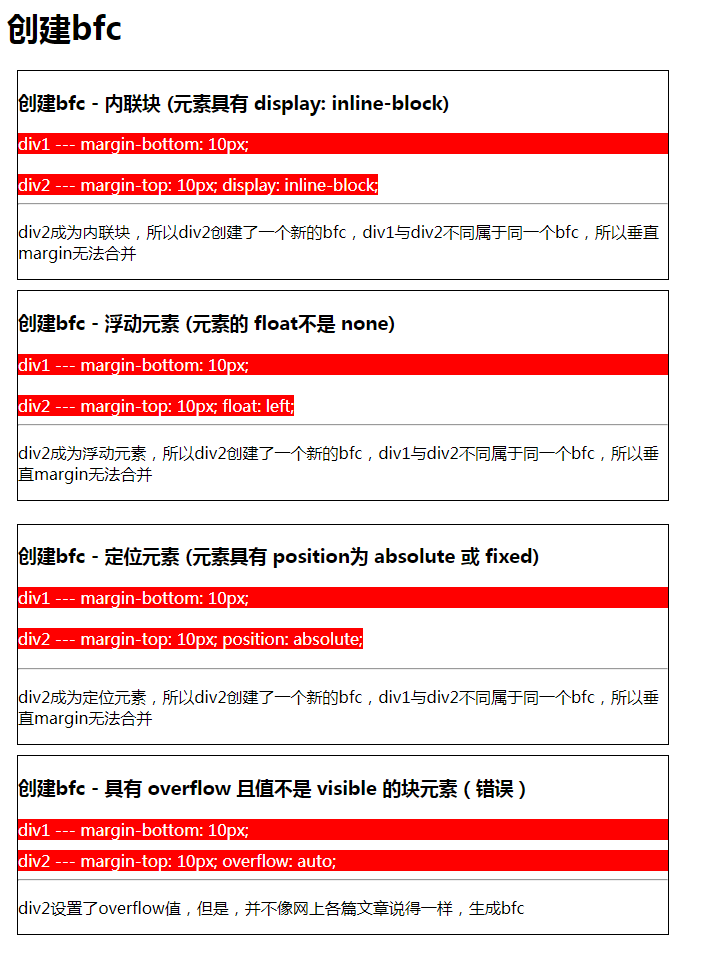
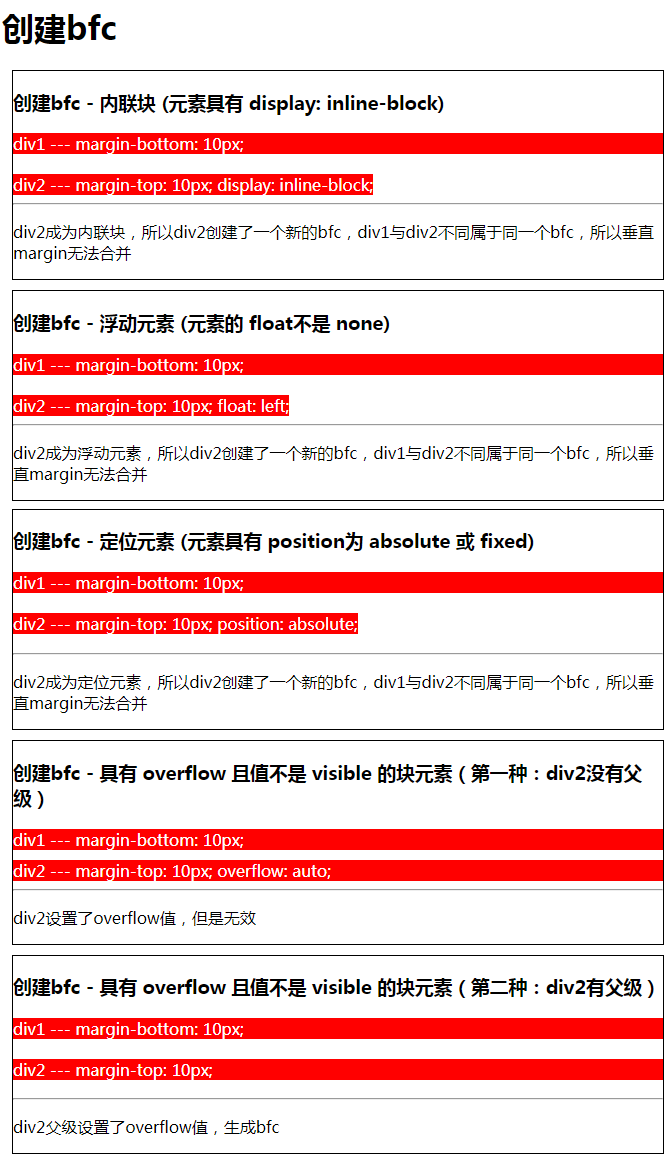
finish

diff --git a/effects/demo/css/vfm/bfc/eg5.html b/effects/demo/css/vfm/bfc/eg5.html
@@ -26,11 +26,11 @@
         }
         .test3 .box:nth-of-type(2) {
             margin-top: 10px;
-            overflow: auto;
+            position: absolute;
         }
         .test4 .box:nth-of-type(2) {
             margin-top: 10px;
-            position: absolute;
+            overflow: auto;
         }
     </style>
 </head>
@@ -51,7 +51,7 @@
     <hr>
     <p>div2成为浮动元素，所以div2创建了一个新的bfc，div1与div2不同属于同一个bfc，所以垂直margin无法合并</p>
 </div>
-<div class="container test4">
+<div class="container test3">
     <h3>创建bfc - 定位元素 (元素具有 position为 absolute 或 fixed)</h3>
     <div class="box">div1 --- margin-bottom: 10px;</div>
     <div class="box">div2 --- margin-top: 10px; position: absolute;</div>
@@ -60,14 +60,24 @@
     <hr>
     <p>div2成为定位元素，所以div2创建了一个新的bfc，div1与div2不同属于同一个bfc，所以垂直margin无法合并</p>
 </div>
-<div class="container test3">
-    <h3>创建bfc - 具有 overflow 且值不是 visible 的块元素（错误）</h3>
+
+
+<div class="container test4">
+    <h3>创建bfc - 具有 overflow 且值不是 visible 的块元素（第一种：div2没有父级）</h3>
     <div class="box">div1 --- margin-bottom: 10px;</div>
     <div class="box">div2 --- margin-top: 10px; overflow: auto;</div>
     <hr>
-    <p>div2设置了overflow值，但是，并不像网上各篇文章说得一样，生成bfc</p>
+    <p>div2设置了overflow值，但是无效</p>
 </div>
 
-
+<div class="container test5">
+    <h3>创建bfc - 具有 overflow 且值不是 visible 的块元素（第二种：div2有父级）</h3>
+    <div class="box">div1 --- margin-bottom: 10px;</div>
+    <div style="overflow: auto;">
+        <div class="box" style="margin-top: 10px">div2 --- margin-top: 10px;</div>
+    </div>
+    <hr>
+    <p>div2父级设置了overflow值，生成bfc</p>
+</div>
 </body>
 </html>

diff --git a/effects/demo/css/vfm/eg4.html b/effects/demo/css/vfm/eg4.html
@@ -23,7 +23,7 @@
     </style>
 </head>
 <body>
-<h2>设置上下内边距，设置背景颜色后可以看见内边距区域有增加，对于行内非替换元素，不会影响其行高，不会撑开父元素</h2>
+<h2>设置上下内边距，设置背景颜色后可以看见内边距区域有增加，<br>对于行内非替换元素，不会影响其行高，不会撑开父元素</h2>
 <div class="wrapper"><strong>hello world</strong></div>
 </body>
 </html>

diff --git a/effects/demo/css/vfm/eg3.html b/effects/demo/css/vfm/eg3.html
@@ -22,7 +22,7 @@
     </style>
 </head>
 <body>
-<h2>设置上下内边距，设置背景颜色后可以看见内边距区域有增加，对于行内替换元素，会撑开父元素</h2>
+<h2>设置上下内边距，设置背景颜色后可以看见内边距区域有增加，<br>对于行内替换元素，会撑开父元素</h2>
 <div class="wrapper"><input type="text" placeholder="我是input"/></div>
 </body>
 </html>

diff --git a/_posts/originalNote/css/2017-09-05-css-visual-formatting-model.md b/_posts/originalNote/css/2017-09-05-css-visual-formatting-model.md
@@ -55,17 +55,44 @@ tag: CSS
 
 ### 2.3 非替换元素
 
-![vfm](/styles/images/css/vfm/vfm-03.png)
+> * 非替换元素：`(X)HTML` 的大多数元素都是非替换元素，他们将内容直接告诉浏览器，将其显示出来
+
+> * 行内非替换元素特点：
+>   * 行内非替换元素添加 `padding-top` 或 `padding-bottom`，不影响行框高度，但内容去高度会变化
+>   * `margin-top`，`margin-bottom` 对行框没有任何影响
+>   * 添加左右边距会影响行内非替换元素水平位置
+
+---
 
 > * 以下这两个 `demo` 是关于行内非替换元素与行内替换元素的对比：
->   * 点击打开[demo1](/effects/demo/css/vfm/eg3.html)
->   * 点击打开[demo2](/effects/demo/css/vfm/eg4.html)
+
+> * 行内非替换元素：【点击打开[demo1](/effects/demo/css/vfm/eg3.html)】
+
+![vfm](/styles/images/css/vfm/vfm-07.png)
+
+> * 行内替换元素：【点击打开[demo2](/effects/demo/css/vfm/eg4.html)】
+
+![vfm](/styles/images/css/vfm/vfm-08.png)
 
 ### 2.4 替换元素
 
-![vfm](/styles/images/css/vfm/vfm-04.png)
+> * 替换元素：替换元素是浏览器根据元素的标签和属性，来决定元素的具体显示内容
+
+> * 替换元素：
+>   * `audio` 和 `canvas` 在某些特定情况下为替换元素
+>   * 行内替换元素：`input`/`textarea`/`select`(`display:inline-block`)；`img`/`object`/`iframe`(`display:inline`)
+
+> * 特点：
+>   * 替换元素是其内容不受`css`视觉格式化模型控制的元素
+>   * 在这些元素没有实际的内容，是个空元素
+>   * 浏览器会根据元素的标签类型和属性来显示这些元素
+>   * 替换元素也在其显示中生成了框 --- 替换元素通常有其固有的尺寸（一个固有的宽度、一个固有的高度和一个固有的比率）
+>   * 替换元素可增加其行框高度，带不影响`line-height` --- 内容区高度值 = `pading-top` + `padding-bottom` + `margin-top` + `margin-bottom` + `height`（要向替换元素居中，可设置 `line-height = height`）
+
 
 > * 这个 `demo` 是关于说明行内替换元素有哪些。【点击打开[demo](/effects/demo/css/vfm/eg5.html)】
+
+![vfm](/styles/images/css/vfm/vfm-09.png)
     
 ### 2.5 块级元素
 
@@ -80,7 +107,7 @@ tag: CSS
 ### 2.6 行内元素
 
 > * 行内元素不会在框前或框后生成“行分隔符”。
->    * 行内元素有：`strong`、`span`
+>    * 行内元素有：`strong`、`span`、`em`、`i`、`b`
 
 ### 2.7 根元素
 

diff --git a/_posts/originalNote/css/2017-11-20-css-visual-formatting-model-2.md b/_posts/originalNote/css/2017-11-20-css-visual-formatting-model-2.md
@@ -10,6 +10,7 @@ tag: CSS
 
 > * 参考资料：
 >   * [CSS深入理解流体特性和BFC特性下多栏自适应布局](http://www.zhangxinxu.com/wordpress/2015/02/css-deep-understand-flow-bfc-column-two-auto-layout/)
+>   * [前端精选文摘：BFC 神奇背后的原理](https://www.cnblogs.com/lhb25/p/inside-block-formatting-ontext.html)
 
 
 <!-- more -->
